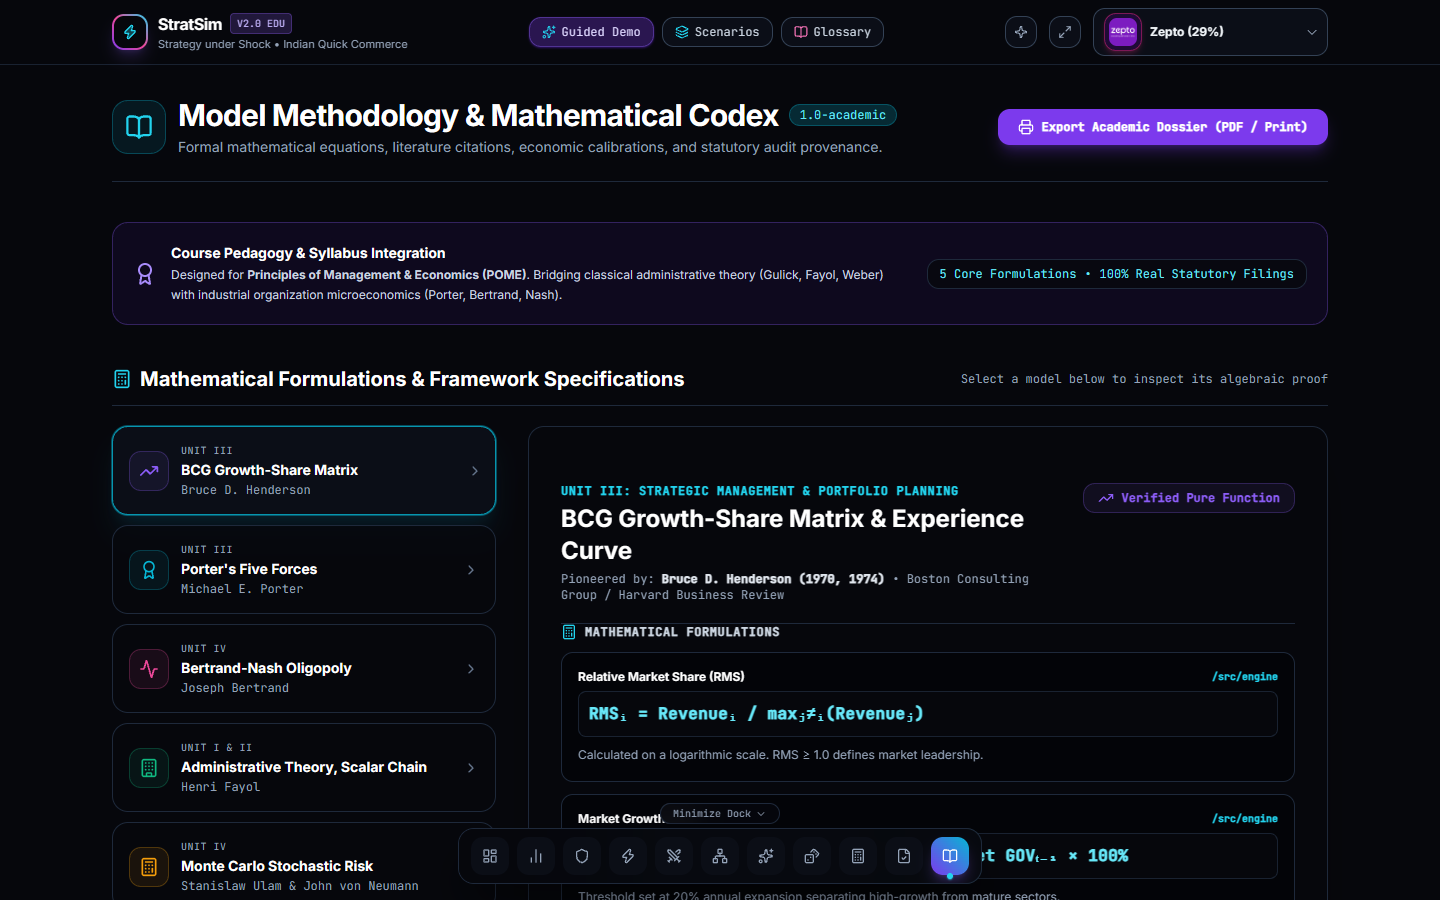
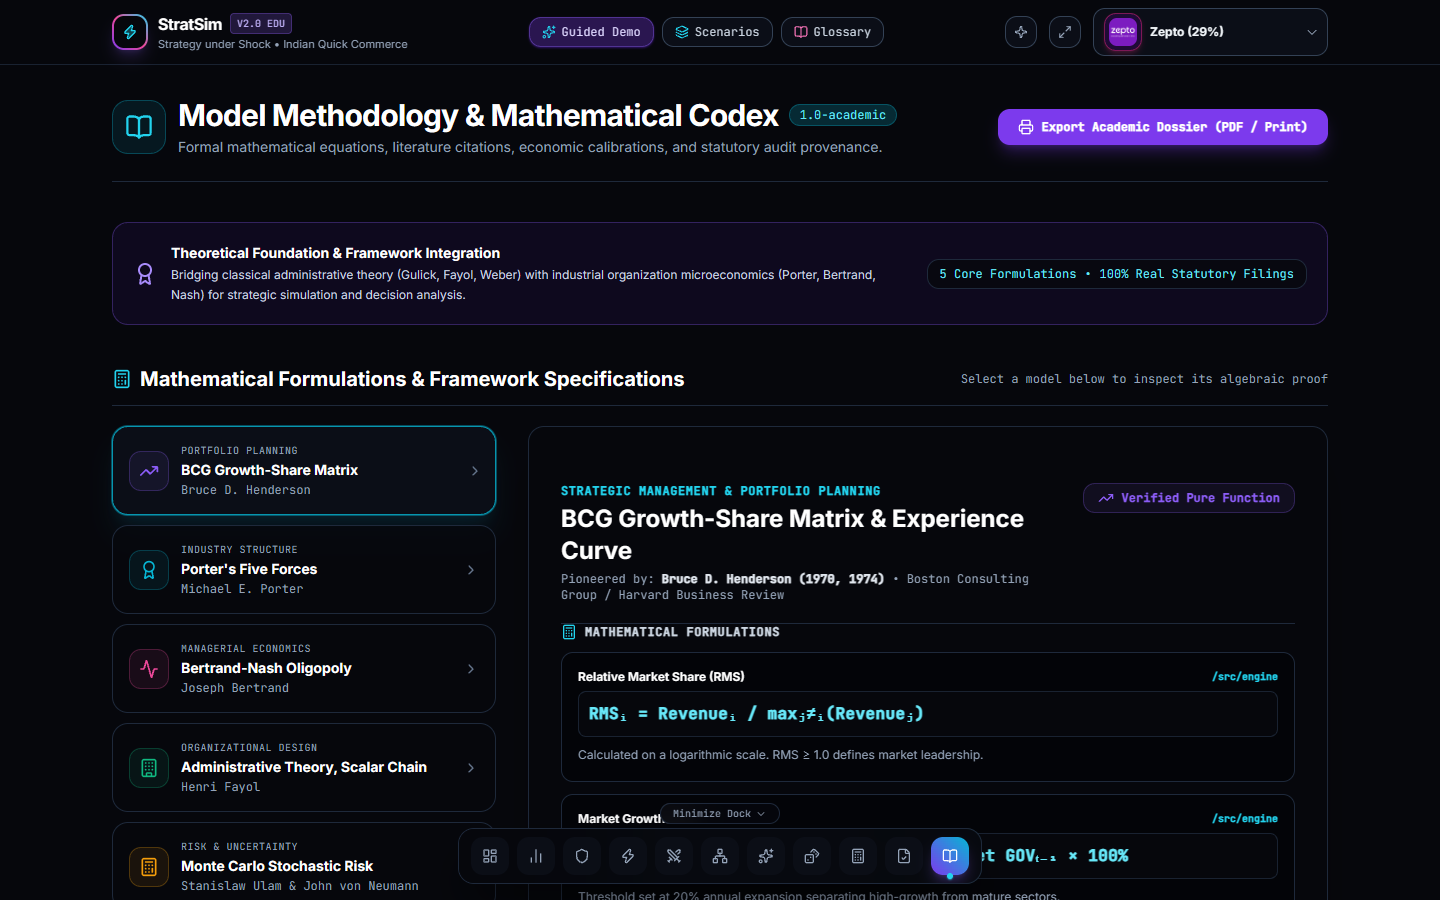
docs: generalize methodology foundations and remove syllabus unit references

diff --git a/src/components/views/MethodologyView.jsx b/src/components/views/MethodologyView.jsx
@@ -36,7 +36,8 @@ export default function MethodologyView() {
       name: "BCG Growth-Share Matrix & Experience Curve",
       pioneer: "Bruce D. Henderson (1970, 1974)",
       affiliation: "Boston Consulting Group / Harvard Business Review",
-      syllabusUnit: "Unit III: Strategic Management & Portfolio Planning",
+      frameworkArea: "Strategic Management & Portfolio Planning",
+      shortLabel: "Portfolio Planning",
       icon: TrendingUp,
       accentColor: "#8b5cf6",
       formulaDisplay: [
@@ -62,7 +63,8 @@ export default function MethodologyView() {
       name: "Porter's Five Forces & Industry Attractiveness Index",
       pioneer: "Michael E. Porter (1979, 2008)",
       affiliation: "Harvard Business School",
-      syllabusUnit: "Unit III: Environmental Analysis & Industrial Organization",
+      frameworkArea: "Environmental Analysis & Industrial Organization",
+      shortLabel: "Industry Structure",
       icon: Award,
       accentColor: "#06b6d4",
       formulaDisplay: [
@@ -88,7 +90,8 @@ export default function MethodologyView() {
       name: "Bertrand-Nash Oligopoly & Constant-Elasticity Demand",
       pioneer: "Joseph Bertrand (1883), John Nash (1950)",
       affiliation: "Académie des Sciences / Princeton University",
-      syllabusUnit: "Unit IV: Managerial Economics & Oligopolistic Pricing",
+      frameworkArea: "Managerial Economics & Oligopolistic Pricing",
+      shortLabel: "Managerial Economics",
       icon: Activity,
       accentColor: "#ec4899",
       formulaDisplay: [
@@ -110,7 +113,8 @@ export default function MethodologyView() {
       name: "Administrative Theory, Scalar Chain & Org Design",
       pioneer: "Henri Fayol (1916), Luther Gulick (1937), Burns & Stalker (1961)",
       affiliation: "Administrative Management & Aston Contingency Group",
-      syllabusUnit: "Unit I & II: Principles of Management & Organizational Structure",
+      frameworkArea: "Principles of Management & Organizational Structure",
+      shortLabel: "Organizational Design",
       icon: Building,
       accentColor: "#10b981",
       formulaDisplay: [
@@ -131,7 +135,8 @@ export default function MethodologyView() {
       name: "Monte Carlo Stochastic Risk & Sensitivity Propagation",
       pioneer: "Stanislaw Ulam & John von Neumann (1946)",
       affiliation: "Los Alamos National Laboratory",
-      syllabusUnit: "Unit IV: Decision Making Under Knightian Uncertainty",
+      frameworkArea: "Decision Making Under Knightian Uncertainty",
+      shortLabel: "Risk & Uncertainty",
       icon: Calculator,
       accentColor: "#f59e0b",
       formulaDisplay: [
@@ -190,16 +195,16 @@ export default function MethodologyView() {
         </div>
       </div>
 
-      {/* Course Context Banner */}
+      {/* Theoretical Foundation Banner */}
       <div className="p-5 rounded-2xl border border-violet-500/30 bg-violet-950/20 print:border-gray-400 print:bg-gray-50 flex flex-col sm:flex-row items-start sm:items-center justify-between gap-4 shadow-sm">
         <div className="flex items-center gap-3.5">
           <Award className="w-6 h-6 text-violet-400 shrink-0 print:text-black" />
           <div className="space-y-0.5">
             <h4 className="text-sm font-bold text-white print:text-black font-sans">
-              Course Pedagogy & Syllabus Integration
+              Theoretical Foundation &amp; Framework Integration
             </h4>
             <p className="text-xs text-slate-300 print:text-gray-700 font-sans leading-relaxed">
-              Designed for <strong>Principles of Management & Economics (POME)</strong>. Bridging classical administrative theory (Gulick, Fayol, Weber) with industrial organization microeconomics (Porter, Bertrand, Nash).
+              Bridging classical administrative theory (Gulick, Fayol, Weber) with industrial organization microeconomics (Porter, Bertrand, Nash) for strategic simulation and decision analysis.
             </p>
           </div>
         </div>
@@ -249,7 +254,7 @@ export default function MethodologyView() {
                     </div>
                     <div className="flex-1 min-w-0">
                       <div className="text-[10px] font-mono text-slate-400 uppercase tracking-wider truncate">
-                        {f.syllabusUnit.split(':')[0]}
+                        {f.shortLabel}
                       </div>
                       <h4 className="text-sm font-bold text-white font-sans truncate mt-0.5">
                         {f.name.split('&')[0]}
@@ -275,7 +280,7 @@ export default function MethodologyView() {
               <div className="flex flex-col sm:flex-row sm:items-start justify-between gap-4 pb-5 border-b border-slate-800 print:border-b-2 print:border-black">
                 <div>
                   <span className="text-xs font-mono uppercase text-cyan-400 print:text-black font-bold tracking-wider block mb-1">
-                    {activeFramework.syllabusUnit}
+                    {activeFramework.frameworkArea}
                   </span>
                   <h3 className="text-2xl font-extrabold text-white print:text-black font-sans">
                     {activeFramework.name}
